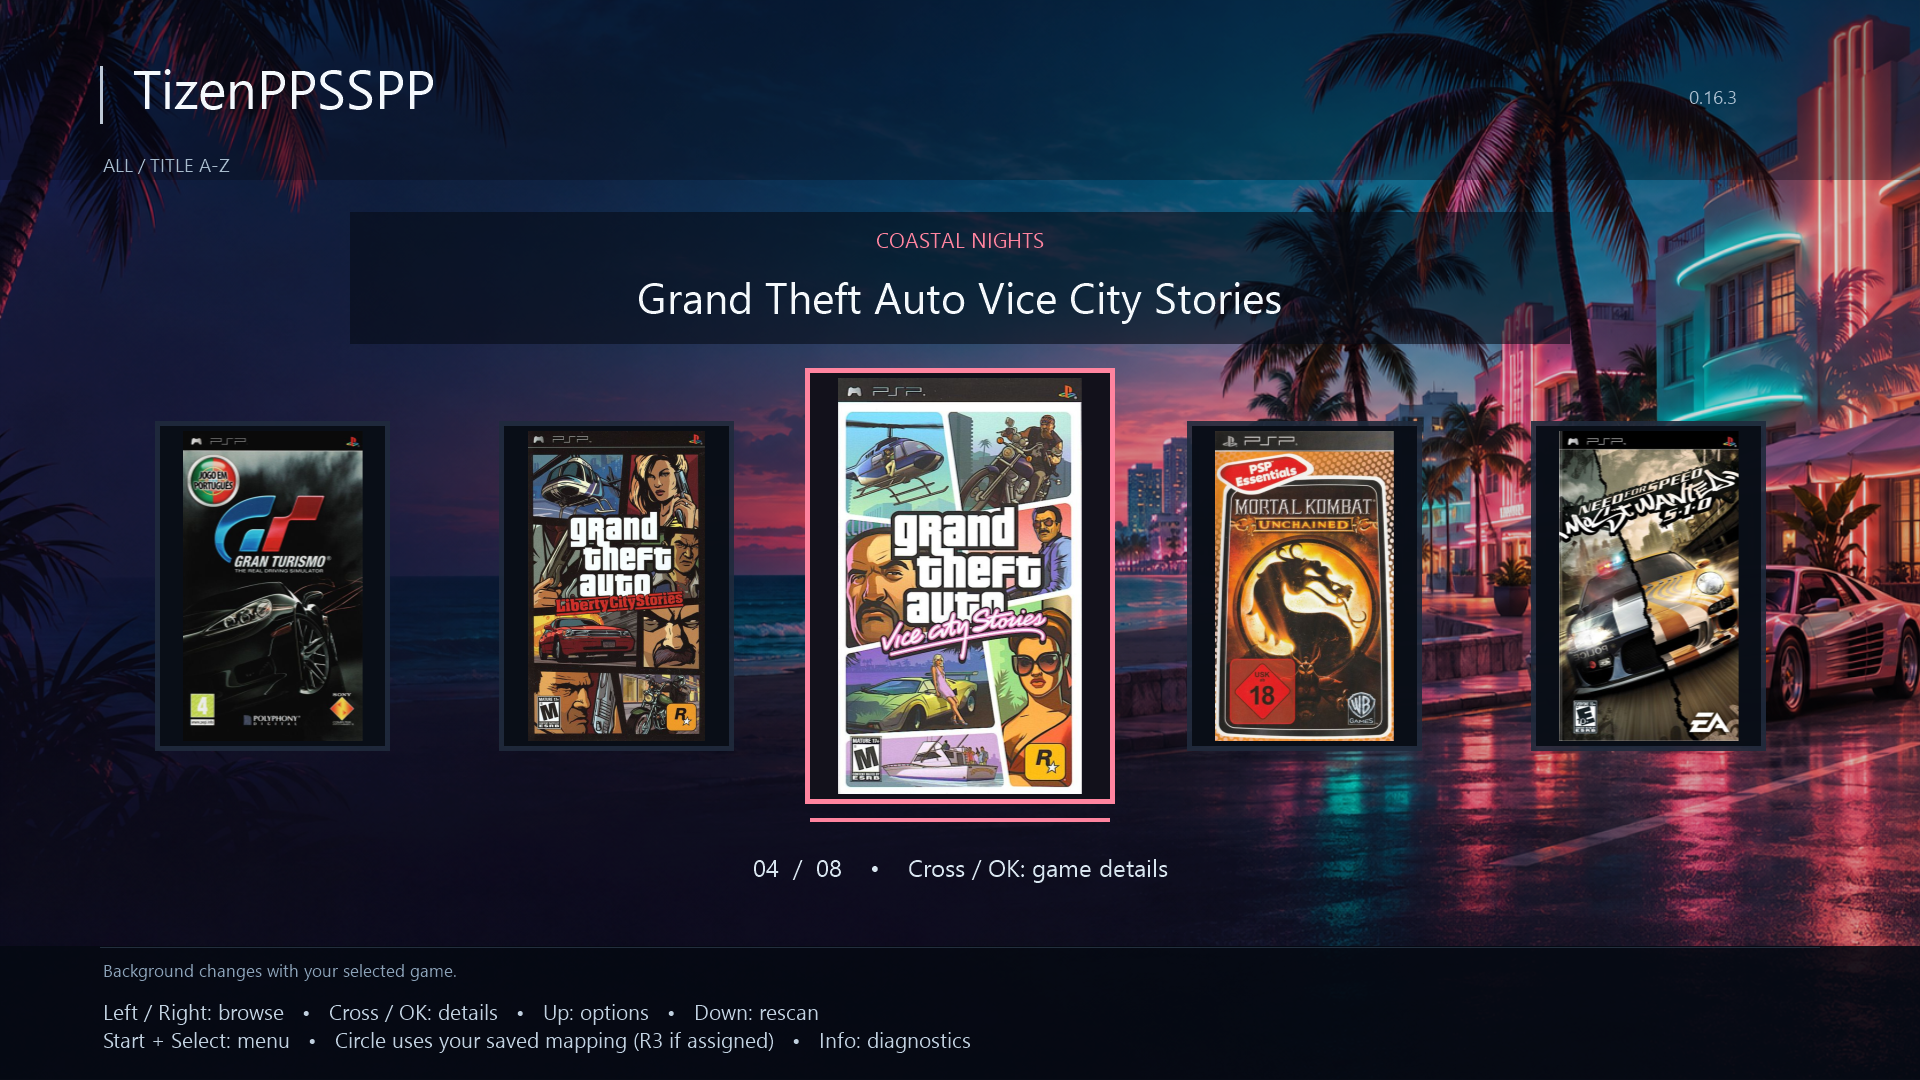
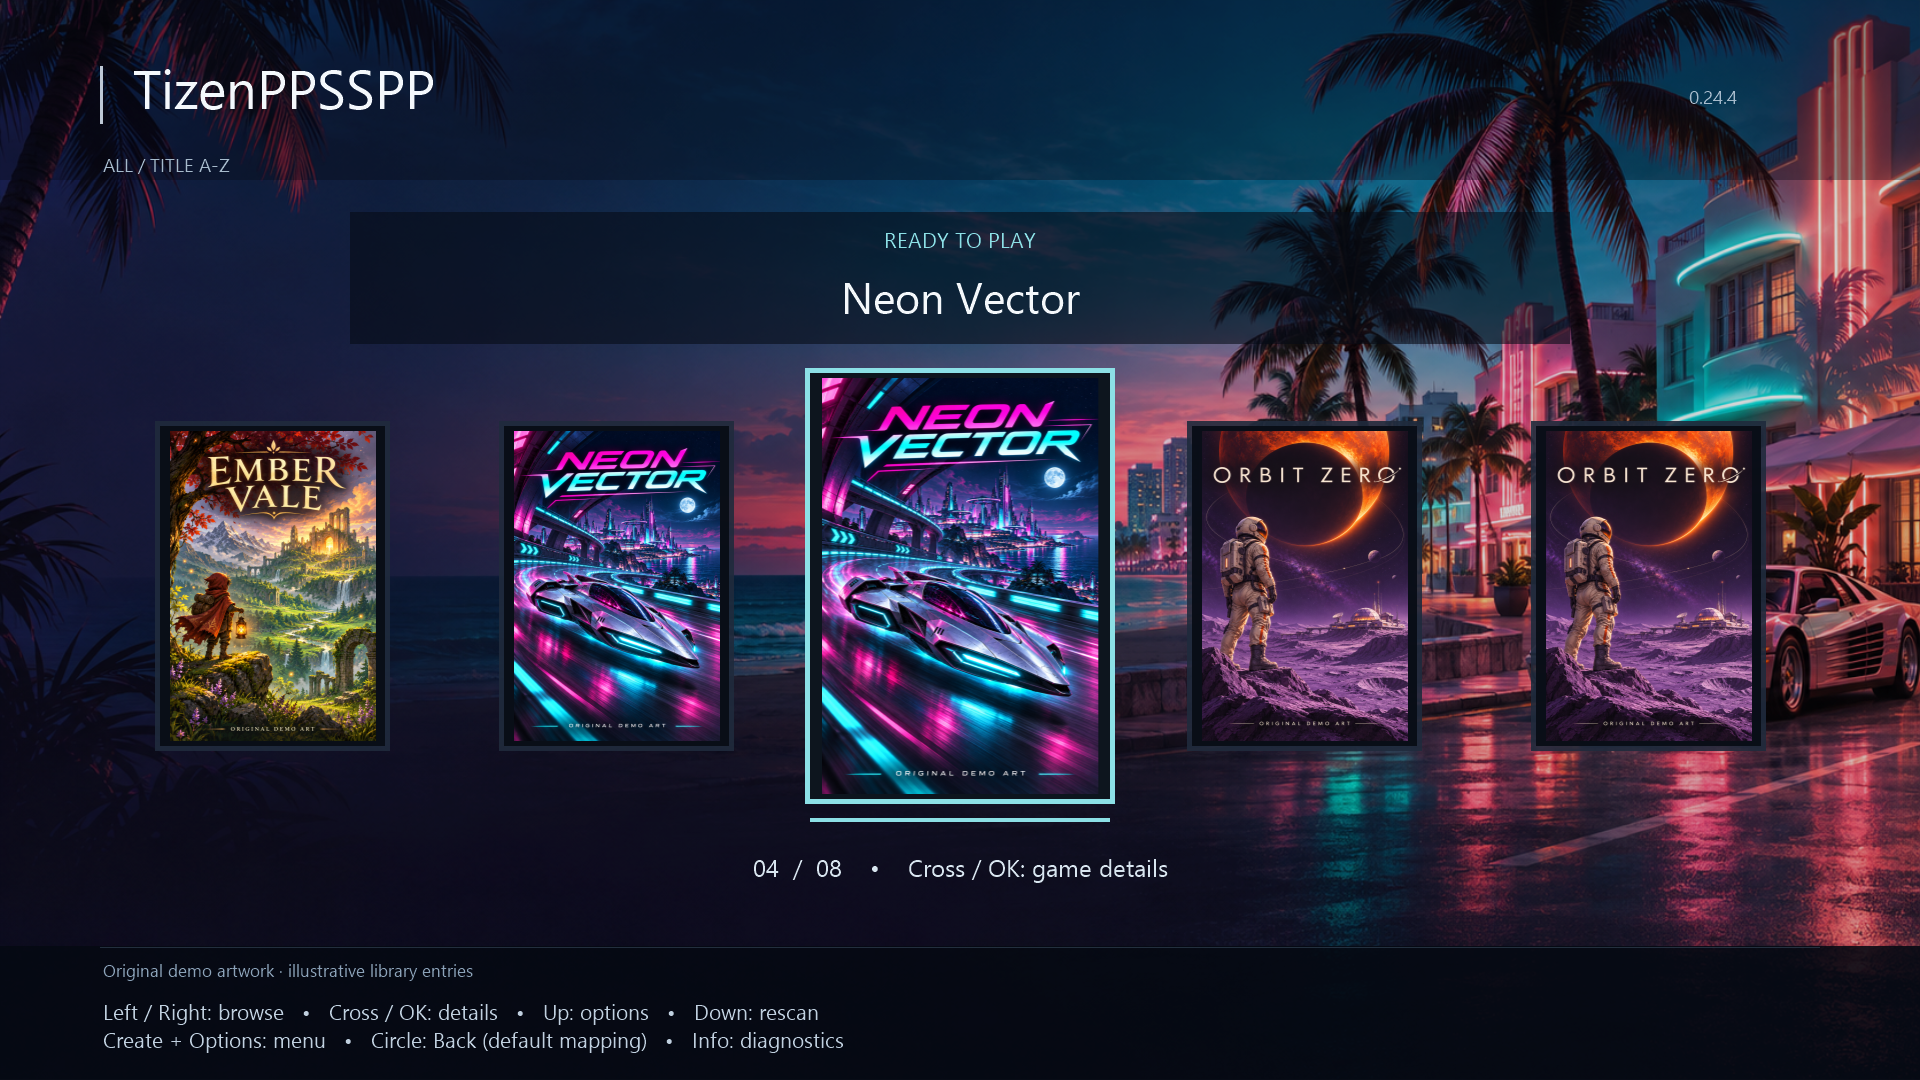
Show current app interfaces in README galleries

diff --git a/app/LibraryView.cs b/app/LibraryView.cs
@@ -162,7 +162,7 @@ internal sealed class LibraryView
             Text((selected+1).ToString("00")+"  /  "+games.Length.ToString("00")+"    •    Cross / OK: game details",400,851,1120,48,24,"#d8e5ef",true);
         }
         Footer(details?"D-pad: choose / change   •   Cross / OK: select   •   Circle / Back: collection":"Left / Right: browse   •   Cross / OK: details   •   Up: options   •   Down: rescan",
-            "Start + Select: menu   •   Circle uses your saved mapping (R3 if assigned)   •   Info: diagnostics",status);
+            "Create + Options: menu   •   Circle: Back (default mapping)   •   Info: diagnostics",status);
         EndFrame();
     }
     internal void DrawMenu(string title,string description,string[] actions,int selected,bool help,string status) {
@@ -172,7 +172,7 @@ internal sealed class LibraryView
         if(help) {
             string[] topics={
                 "COLLECTION  —  D-pad browses; Cross opens details. Up: options. Down: rescan USB.",
-                "CONTROLS  —  Mapped Circle goes Back (R3 if assigned). Start + Select opens Pause.",
+                "CONTROLS  —  Circle goes Back by default. Create + Options opens Pause. Controllers: remap buttons.",
                 "PERFORMANCE  —  Select + L + R toggles stats. Remote Yellow or keyboard F3 also works.",
                 "CPU & GRAPHICS  —  ARM JIT is the default. Save CPU, 1x / 2x resolution and rendering per game.",
                 "ARTWORK  —  Add Game.background.jpg beside Game.iso to use your own background.",

diff --git a/app/ControllerNavigation.cs b/app/ControllerNavigation.cs
@@ -1,7 +1,8 @@
 using System;
 
 // Keep physical menu holds separate from gameplay holds cleared on UI transitions.
-// All actions use the saved PSP bindings, including Circle's R3 workaround.
+// All actions use the saved PSP bindings. Native PS5 defaults map Circle to Back;
+// an explicitly chosen custom binding remains supported.
 internal sealed class ControllerNavigation
 {
     readonly PspInputMap physical=new PspInputMap();

diff --git a/README.md b/README.md
@@ -1,8 +1,30 @@
 # TizenPPSSPP 0.24.4
 
-PSP emulation powered by PPSSPP.
+PSP emulation powered by PPSSPP. Browse your PSP collection with large cover artwork, per-game backgrounds and a controller-friendly details screen.
 
-**Public source edition.** This repository contains the curated source for the development baseline frozen on 16 November 2026, published on 22 November 2026. The full source is browsable here: clone the repository or use **Code → Download ZIP**. There is no separate missing source download.
+![TizenPPSSPP — Cover carousel](docs/showcase/preview.png)
+
+*Current development interface, rendered from app layout code with sample artwork. This is a desktop preview, not a TV capture; your own games and covers populate the library. [Preview details](docs/showcase/README.md).*
+
+[Download current source](https://github.com/DadeRushmore/TizenPPSSPP/archive/refs/heads/main.zip) · [Releases](https://github.com/DadeRushmore/TizenPPSSPP/releases) · [Build guide](BUILD.md)
+
+## More views
+
+**Per-game settings**
+
+![TizenPPSSPP — per-game settings](docs/showcase/settings.png)
+
+**Help and controls**
+
+![TizenPPSSPP — help and controls](docs/showcase/controls.png)
+
+## PS5 controls
+
+The native PS5 reader uses distinct Circle and Triangle inputs. **Circle goes Back by default; R3 is not required as a workaround.** Create + Options opens the menu. Custom button assignments remain available in Controllers. The old 0.16.3 preview and its R3 hint have been replaced. Physical TV verification of the new mapper remains pending; see [controller validation notes](docs/PS5-CONTROLLERS-2026-11-14.md).
+
+## Download and installation status
+
+**Public source edition.** This repository builds on the curated development baseline frozen on 16 November 2026 and published on 22 November 2026. The main branch also includes the interface previews and documentation corrections shown here. The full source is browsable here: clone the repository or use **Code → Download ZIP**. There is no separate missing source download.
 
 **This version does not include an installable TPK and is not an out-of-the-box build.** Native executables, private packages and selected prebuilt runtime assets are omitted. See [BUILD.md](BUILD.md) for the source layout and prerequisites, and [DISTRIBUTION.md](DISTRIBUTION.md) for the remaining binary-release work.
 
@@ -24,6 +46,6 @@ With Python 3 installed, run `python tools/verify-public-source.py` from the rep
 
 PPSSPP GPL-2.0-or-later; frontend GPL-2.0; FFmpeg LGPL-2.1-or-later and vendored dependencies under their retained notices.
 
-The top-level LICENSE covers the project code; third-party components retain their individual licenses. See [THIRD-PARTY-NOTICES.md](THIRD-PARTY-NOTICES.md). No commercial games, retail BIOS images, downloaded game cover scans, private signing keys or device pairing files are supplied. Application placeholder artwork is generated by [render-public-art.py](render-public-art.py); its inventory is [public-art.json](public-art.json). Vendored upstream source assets retain their own notices.
+The top-level LICENSE covers the project code; third-party components retain their individual licenses. See [THIRD-PARTY-NOTICES.md](THIRD-PARTY-NOTICES.md). No commercial game files, retail BIOS images, private signing keys or device pairing files are supplied. The README previews use fictional demo covers; see [preview and artwork notes](docs/showcase/README.md). Application placeholder artwork is generated by [render-public-art.py](render-public-art.py); its inventory is [public-art.json](public-art.json). Vendored upstream source assets retain their own notices.
 
 Independent community project; not affiliated with Samsung, Sony, Nintendo or the upstream emulator teams. No new TV gameplay or compatibility claim is made by this source publication.

diff --git a/docs/showcase/README.md b/docs/showcase/README.md
@@ -1,0 +1,15 @@
+# TizenPPSSPP interface previews
+
+These PNGs were rendered on Windows on 22 November 2026 from the current application layout code using host drawing adapters. They show the development interface with its existing application backgrounds, branding and icons. They are **not photographs or captures from a Samsung TV**. TV fonts, compositing and installed-version details may differ.
+
+The public source edition uses placeholder runtime assets and omits native executables; these documentation previews do not mean that the source ZIP is an installable package. Consult the repository README for release availability.
+
+## Demo collection
+
+Neon Vector, Orbit Zero, Ember Vale and Pixel Horizon are fictional sample entries. Their cover illustrations were created with the built-in OpenAI image-generation tool for this documentation. No game files or gameplay captures were generated or supplied. Repeated “Encore” entries demonstrate longer collections, not additional games.
+
+The four original cover assets are in [art/](art/). The exact prompt template and scene substitutions are recorded in [art-prompts.json](art-prompts.json). The application UI was drawn by code, not generated as an image by AI.
+
+## Layout sources
+
+`app/LibraryView.cs` and `app/LibraryTheme.cs`; host primitives rendered at 1920 × 1080.
